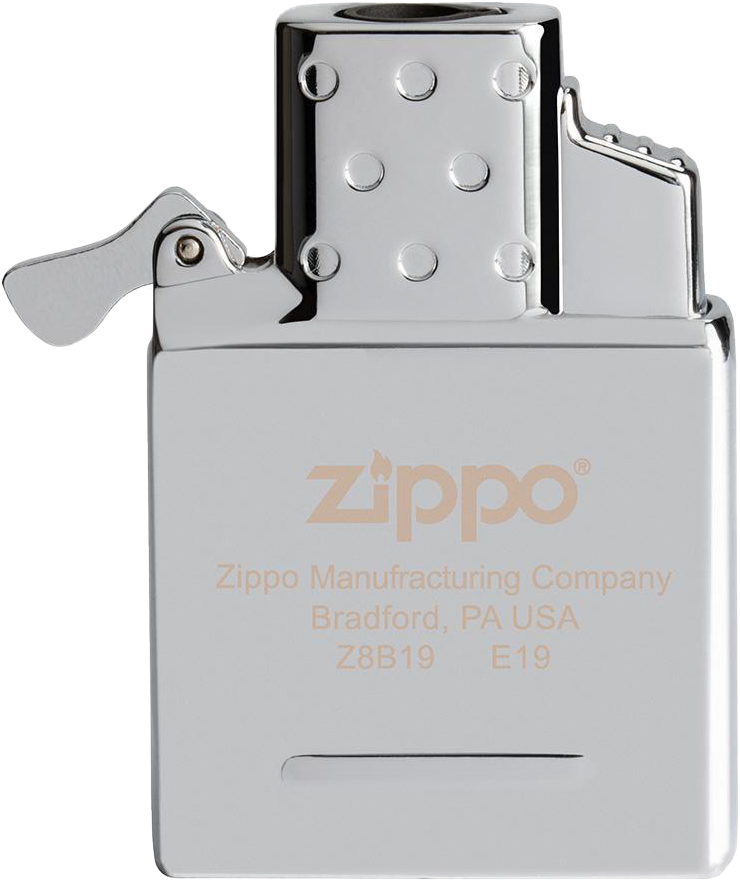
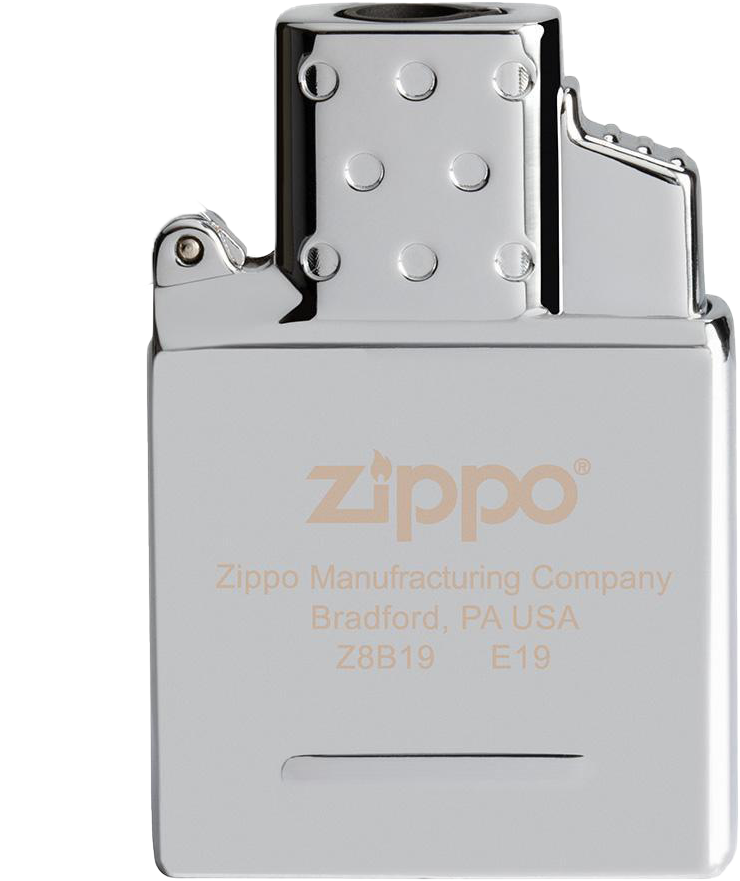
3/9 Commit 9

Changed region(s): [[0.0, 0.2145, 0.2797, 0.3984]]

diff --git a/project-2/js/script.js b/project-2/js/script.js
@@ -3,19 +3,27 @@ $(function(){
 	arrows: true,
 	appendArrows: $('.carousel'),
 	prevArrow: $('.left'),
-    nextArrow: $('.right'),
+	nextArrow: $('.right'),
 	dots: false,
 	slidesToShow: 1,
 	centerMode: true,
 	});
 });
 
-$( function() {
+$(function(){
 	$('#draggable-insert').draggable({ axis: 'y' });
-} );
+});
 
-$(".draggable-lid").click(function(){
-	$(this).animate({ transform: 'rotate(-90deg)'}, 500) ;
+$('#draggable-lid').click(function() {
+	var clicks = $(this).data('clicks');
+	if (clicks) {
+		$(this).css({ transform: 'rotate(-45deg)', }),
+		$("#zippoclick")[0].play();
+	} else {
+		$(this).css({ transform: 'rotate(90deg)', }),
+		$("#zippoclick2")[0].play();
+	}
+	$(this).data("clicks", !clicks);
 });
 
 $('#grid-stripes').hover(

diff --git a/project-2/demo.html b/project-2/demo.html
@@ -13,6 +13,16 @@
 
 <body>
 
+	<audio id="zippoclick" volume="0.5">
+		<source src="zippoclick.mp3" type="audio/mpeg">
+		Your browser can't play this audio.
+	</audio>
+	
+	<audio id="zippoclick2" volume="0.5">
+		<source src="zippoclick2.mp3" type="audio/mpeg">
+		Your browser can't play this audio.
+	</audio>
+	
 	<div class="demo-container">
 
 		<div>
@@ -23,7 +33,7 @@
 				<a href="demo.html"class="nav-demo active">DEMO</a>
 				<a href="buy.html" class="nav-buy">BUY</a>
 			</nav>
-			<div><p class="about-prompt">CLICK TO OPEN<br>DRAG TO SEE INSIDE</p></div>
+			<div><p class="about-prompt">DOUBLE CLICK LID TO OPEN<br>DRAG TO SEE INSIDE</p></div>
 		</div>
 
 		<div class="demo-body">

diff --git a/project-2/css/style.css b/project-2/css/style.css
@@ -236,7 +236,12 @@ nav a:hover {
 	transform-origin: bottom right;
 }
 
+.demo-lid-open {
+	transform: rotate(-45deg);
+}
+
 #draggable-lid {
+	transition: .3s all ease-in-out;
 	transform: rotate(90deg);
 }
 
